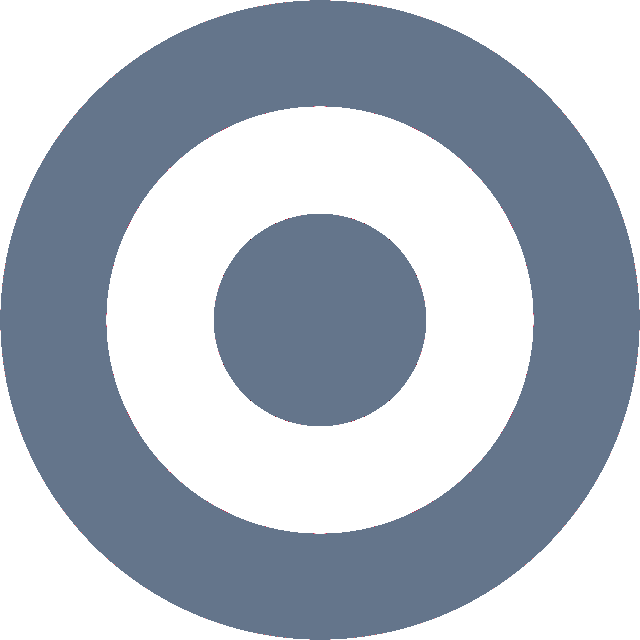
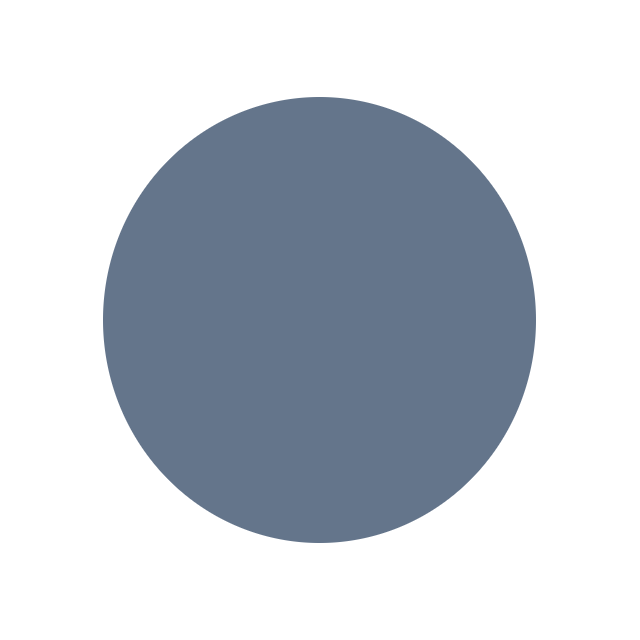
Change image

diff --git a/layouts/Header/header.tsx b/layouts/Header/header.tsx
@@ -23,7 +23,7 @@ const Header=()=>{
                 dark:text-white text-gray-500 font-bold justify-start pl-2 cursor-pointer"
                 onClick={ToHome}
                 >
-                    <img src='test.png' className='w-8'/>
+                    <img src='logo.png'/>
                     <span>Web 3D Viewer</span>
                 </div>
                 <div className={`${isMobile?`float-right pr-2`:`float-left`} h-full  space-x-3 flex items-center `}>

diff --git a/wegGL-components/measure/sprite.tsx b/wegGL-components/measure/sprite.tsx
@@ -22,7 +22,7 @@ const SpriteComponent=({points}:ISpriteProps)=>{
     circle.arc(100, 35, 25, 0, 2 * Math.PI);
 
 
-    const target = loader.load("target2.png");
+    const target = loader.load("target.png");
 
     return(
         <>{
